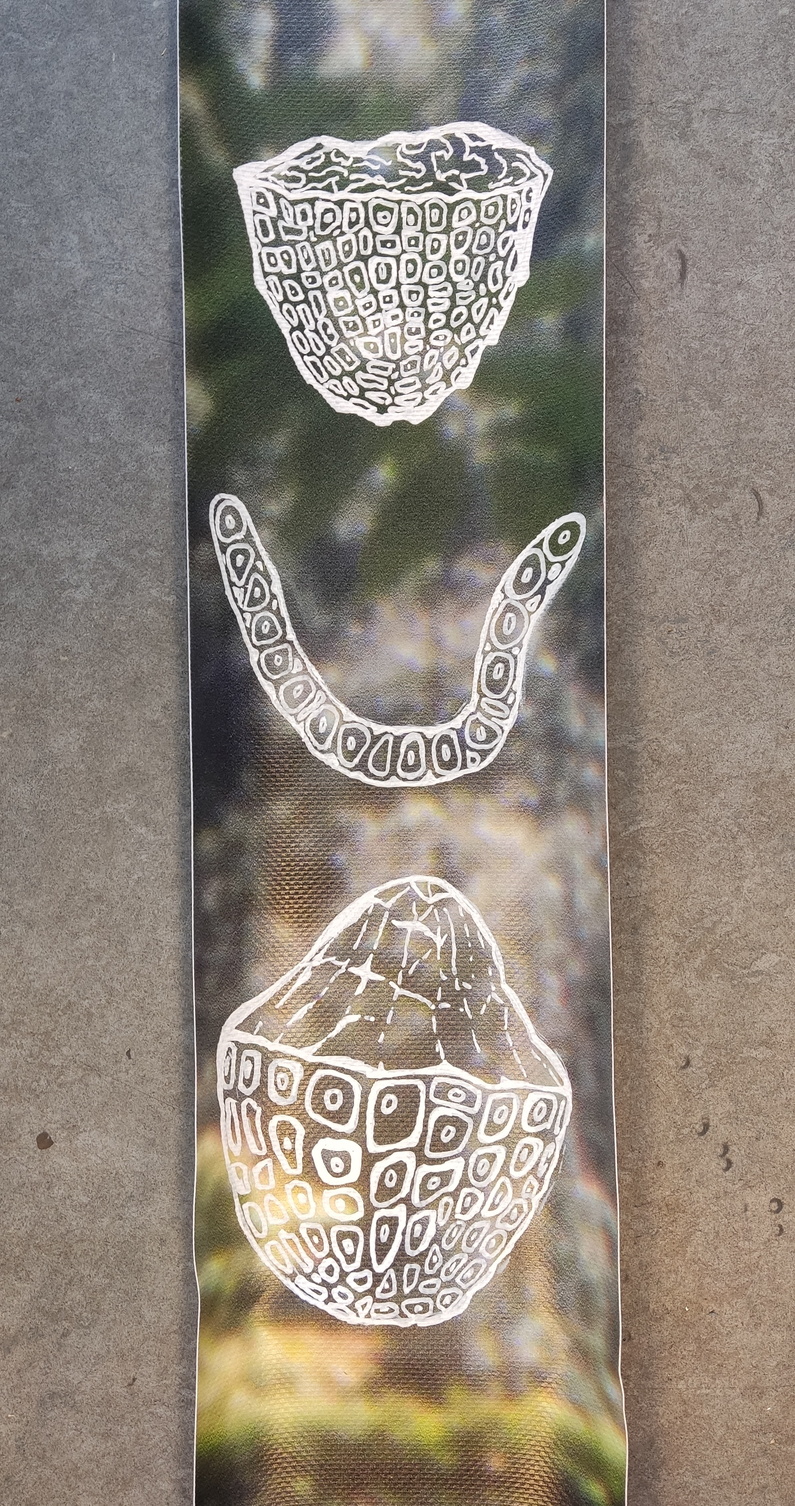
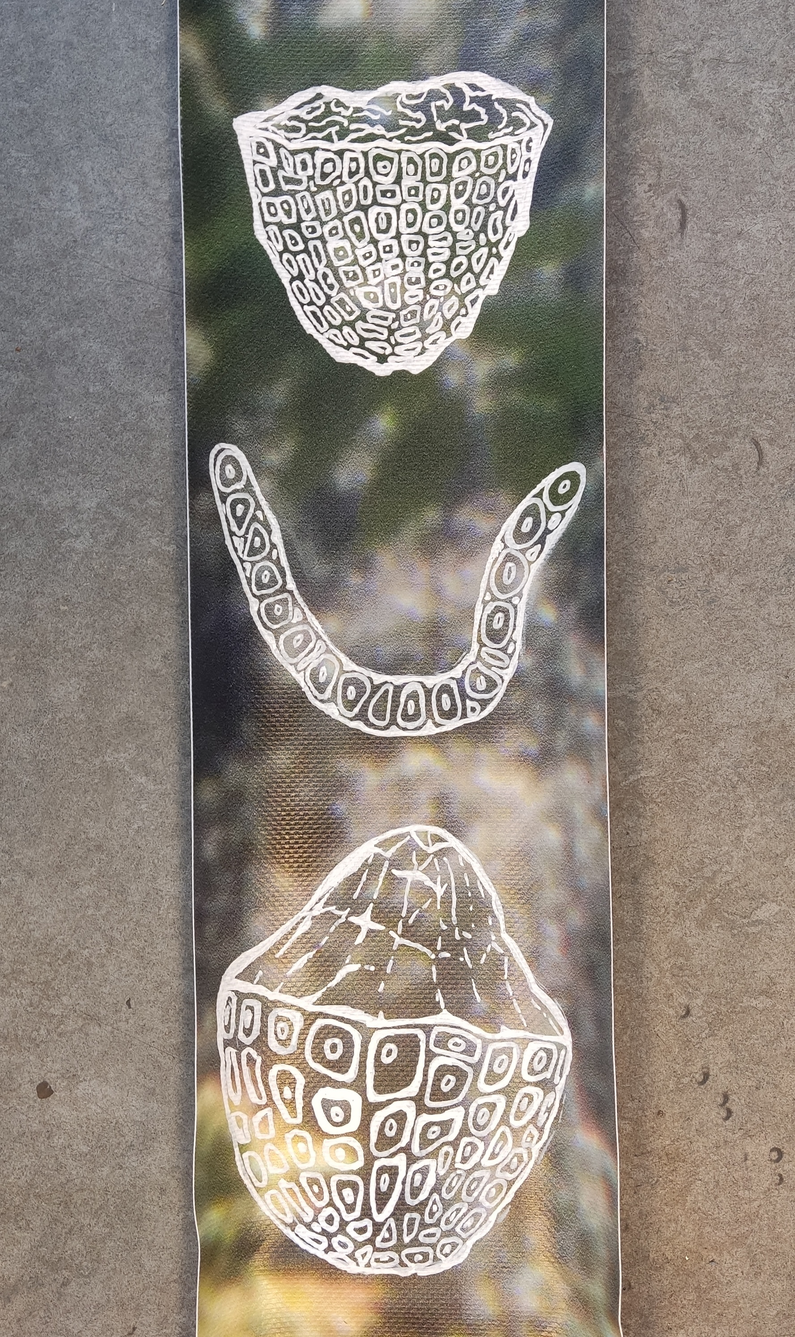
update houblons

diff --git a/sous-cloche.html b/sous-cloche.html
@@ -105,90 +105,93 @@
         <section class="container">
             <h2><i>Sous cloche</i></h2>
             <p> 
-L’installation <i>Sous cloche</i> se décline autour du houblon, évoquant la frontière entre biodiversité cultivée et biodiversité spontanée.
+L’installation <i>Sous cloche</i> se décline autour du houblon. Évoquant la frontière entre végétations cultivée et spontanée,
+elle se veut un hommage aux échanges qui déverrouillent notre notre accès à la biodiversité.
+
 
 <br><br>
 Après avoir porté les bières régionales belges au niveau des marchés internationaux, des variétés entières de houblons ont pourtant disparu à partir du XXe siècle, victimes de l’homogénéisation des goûts et des procédés industriels. 
-Comme des pans de mémoire agronomique oubliés.
-<br>L’installation se concentre sur ces variétés, parmi lesquelles certaines ont été redécouvertes au début des années 2000 grâce à des collaborations scientifiques internationales. 
-Le nom de l'installation provient de l'une d'elles, le Groene Belle, elle-même nommée d'après la forme du cône : une cloche verte.
+Comme des pans de mémoire agronomique oubliés. Quelques unes ont été redécouvertes au début des années 2000 grâce à des collaborations scientifiques internationales. 
+Le nom de l'installation provient de l'une d'elles, la Groene Belle, elle-même nommée d'après la forme du cône : une cloche verte.
 <br><br>
 
-Les dessins, issus de gravures botaniques d'il y a 100 ans, se déploient sur une photographie monumentale récupérée du Centre International pour la Ville et l'Architecture (aujourd'hui Kanal Architecture) représentant le parc René Pechère de Bruxelles, symbole des jardins modernes. 
+Les dessins, issus de gravures botaniques anciennes, sont réalisés sur une photographie récupérée du Centre International pour la Ville et l'Architecture (aujourd'hui Kanal Architecture) représentant le parc René Pechère de Bruxelles, symbole des jardins modernes. 
 La disposition verticale des bandes évoque la pousse des houblonnières. 
 L'ensemble matérialise une nature maîtrisée, du macro au micro.
 Les portions manquantes évoquent les variétés encore perdues, comme le Buvrinnes ou le Witte Rank. 
-L’installation se veut un hommage aux échanges qui déverrouillent notre notre accès à la biodiversité vivante et cultivée.
 <br><br>
 
 Au milieu, une composition réalisée à partir de cônes de houblon séchés, diffuse leur arôme.
-Leur récupération à été permise par plusieurs brasseurs amateurs, botanistes et biologistes qui ont travaillé sur des programmes de réintroduction de variétés perdues de houblons belges. 
-Le mouvement ainsi créé par ses bras fuyants de l’écoulement renforce le contraste entre matière contenue et matière spontanée.
-                
+Leur récupération à été permise par plusieurs brasseurs amateurs, botanistes et biologistes qui ont travaillé sur des programmes de réintroduction de variétés perdues de houblons belges.                
 <h5 style="font-weight: normal !important;">
+               
+2025-2026
+<br>Peinture acrylique sur bâche imprimée, 9 bandes de 250 × max. 20 cm
+<br>Cônes séchés de variétés de houblons d’Aalst perdus et retrouvés, colle et paraffine sur toile, 100 × 80 cm
+<br>
 <br>En novembre 2025, une version interactive de l'installation a été exposée sous le titre <i>Unlockers</i> dans l'espace public, dans le cadre de <i>Meander</i>, exposition de Curating the Young / BAMM! vzw organisée durant le Fringe Festival au Sluispark (Leuven, BE) à l'occasion des 600 ans de l'Université KU Leuven.
 <br><br>Remerciements : Ruben Meert, professeur de biologie du Lycée d’Aalst et brasseur amateur, qui a partagé de la documentation ainsi que des cônes de variétés de houblon retrouvées par lui et son groupe de recherche. 
 Merci également à In Limbo pour les casiers, la bâche et l'espace de son atelier.
 <p> 
-                
-                <h5 style="font-weight: normal !important;">
-                2025-2026
-                <br>Peinture acrylique sur bâche imprimée, 9 bandes de 250 × max. 20 cm
-                <br>Cônes séchés de variétés de houblons d’Aalst perdus et retrouvés, colle et paraffine sur toile, 100 × 80 cm
-
+ 
         </section>
         <section class="gallery container">
 
-            <article class="col-6 col-12-xsmall work-item">
-                <div class="gallery-item">
+
                  <a href="images/houblon/zoom-installation-sous-cloche-horizontal.jpg" data-lightbox="image-3" data-title="Vue de l'installation Sous Cloche">
                      <img src="images/houblon/zoom-installation-sous-cloche-horizontal.jpg" alt="Vue de l'installation Sous Cloche">
                 </a>
                 </div>
+
+        
         <section class="gallery container">
-        <section class="gallery container">
-        <section class="gallery container">
-        <section class="gallery container">
-            <article class="col-6 col-12-xsmall work-item">
+            <div class="gallery-item">
+                <a href="images/houblon/zoom-houblon-seche-et-toile.jpg" data-lightbox="image-3" data-title="Détail de l'installation Sous Cloche">
+                    <img src="images/houblon/zoom-houblon-seche-et-toile.jpg" alt="Détail de l'installation Sous Cloche">
+                </a>
+            </div> 
             <div class="gallery-item">
                 <a href="images/houblon/dessin-fleur.png" data-lightbox="image-2" data-title="Dessin de fleur de houblon">
                     <img src="images/houblon/dessin-fleur.png" alt="Dessin de fleur de houblon">
                 </a>
-            </div>
-
-            <article class="col-6 col-12-xsmall work-item">
+           </div> 
+           <div class="gallery-item">
                 <a href="images/houblon/dessin-bande.jpg" data-lightbox="image-2" data-title="Dessin de la composition d'une partie de fleur de houblon">
                     <img src="images/houblon/dessin-bande.jpg" alt="Dessin de la composition d'une partie de fleur de houblon">
                 </a>
             </div>
 <br><br>
-            <div class="gallery-item">
                 <a href="images/houblon/zoom-bandes.jpg" data-lightbox="image-3" data-title="Vue des dessins de l'installation Sous Cloche">
                     <img src="images/houblon/zoom-bandes.jpg" alt="Vue des dessins de l'installation Sous Cloche">
                </a>
-            </div>
 
-            <article class="col-6 col-12-xsmall work-item">
+
+
+
+            <section class="gallery container">
             <div class="gallery-item">
-                <a href="images/houblon/zoom-houblon-seche-et-toile.jpg" data-lightbox="image-3" data-title="Détail de l'installation Sous Cloche">
-                    <img src="images/houblon/zoom-houblon-seche-et-toile.jpg" alt="Détail de l'installation Sous Cloche">
+                <a href="images/houblon/interieur2.jpg" data-lightbox="image-3" data-title="Installation Unlockers">
+                    <img src="images/houblon/interieur2.jpg" alt="Vue de l'installation Unlockers, activée par des passantes">
                 </a>
             </div>
-
-            <article class="col-6 col-12-xsmall work-item">
             <div class="gallery-item">
                 <a href="images/houblon/visiteuse-installation.jpg" data-lightbox="image-3" data-title="Installation Unlockers">
                     <img src="images/houblon/visiteuse-installation.jpg" alt="Vue de l'installation Unlockers, activée par des passantes">
                 </a>
             </div>
-     
-            
-            <article class="col-6 col-12-xsmall work-item">
             <div class="gallery-item">
+                <a href="images/houblon/consigne.png" data-lightbox="image-3" data-title="Installation Unlockers">
+                    <img src="images/houblon/consigne.png" alt="Vue de l'installation Unlockers, activée par des passantes">
+                </a>
+            </div>
+     
+                <a href="images/houblon/casiers-fermes.jpg" data-lightbox="image-3" data-title="Installation Unlockers">
+                    <img src="images/houblon/casiers-fermes.jpg" alt="Vue de l'installation Unlockers non activée">
+                </a>
                 <a href="images/houblon/installation-unlockers-leuven-face.jpg" data-lightbox="image-3" data-title="Installation Unlockers">
                     <img src="images/houblon/installation-unlockers-leuven-face.jpg" alt="Vue de l'installation Unlockers de nuit">
                 </a>
-            </div>
+
 
             <!-- Ajoutez plus d'images si nécessaire -->
         </section>

diff --git a/envol.html b/envol.html
@@ -135,7 +135,7 @@ Commande publique de la Commune de Schaerbeek, 2026
                 <a href="images/envol/FionaGuillemant©PragmaStudio7.JPG" data-lightbox="image-3" data-title="sculptures Envol">
                     <img src="images/envol/FionaGuillemant©PragmaStudio7.JPG" alt="sculptures Envol">
                 </a>
-                </div>
+            </div>
 
              <section class="gallery container">
                 <a href="images/envol/FionaGuillemant©PragmaStudio4.JPG" data-lightbox="image-1" data-title="sculptures Envol">
